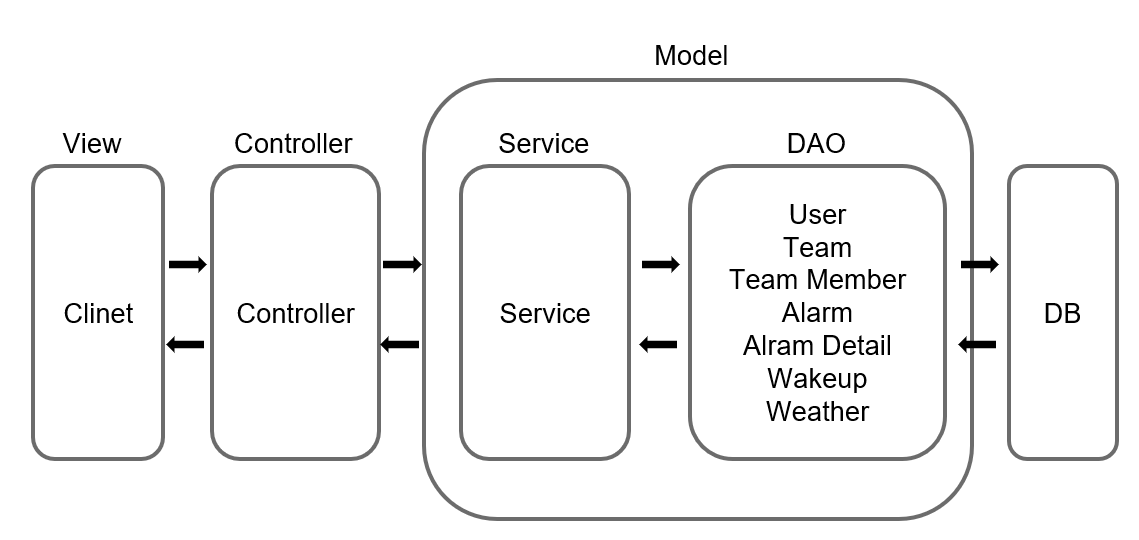
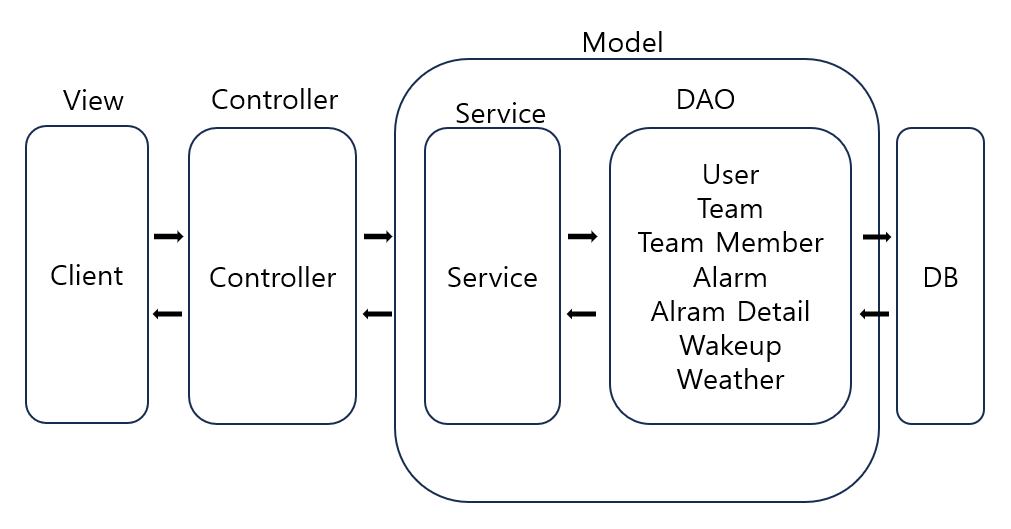
readme 수정

diff --git a/README.md b/README.md
@@ -69,7 +69,7 @@
 
 ## 🚗 Back-End 내부 동작 흐름 🚗
 
-![img_27.png](image/img_27.png)
+![img_17.png](image/img_17.png)
 
 ---
 
